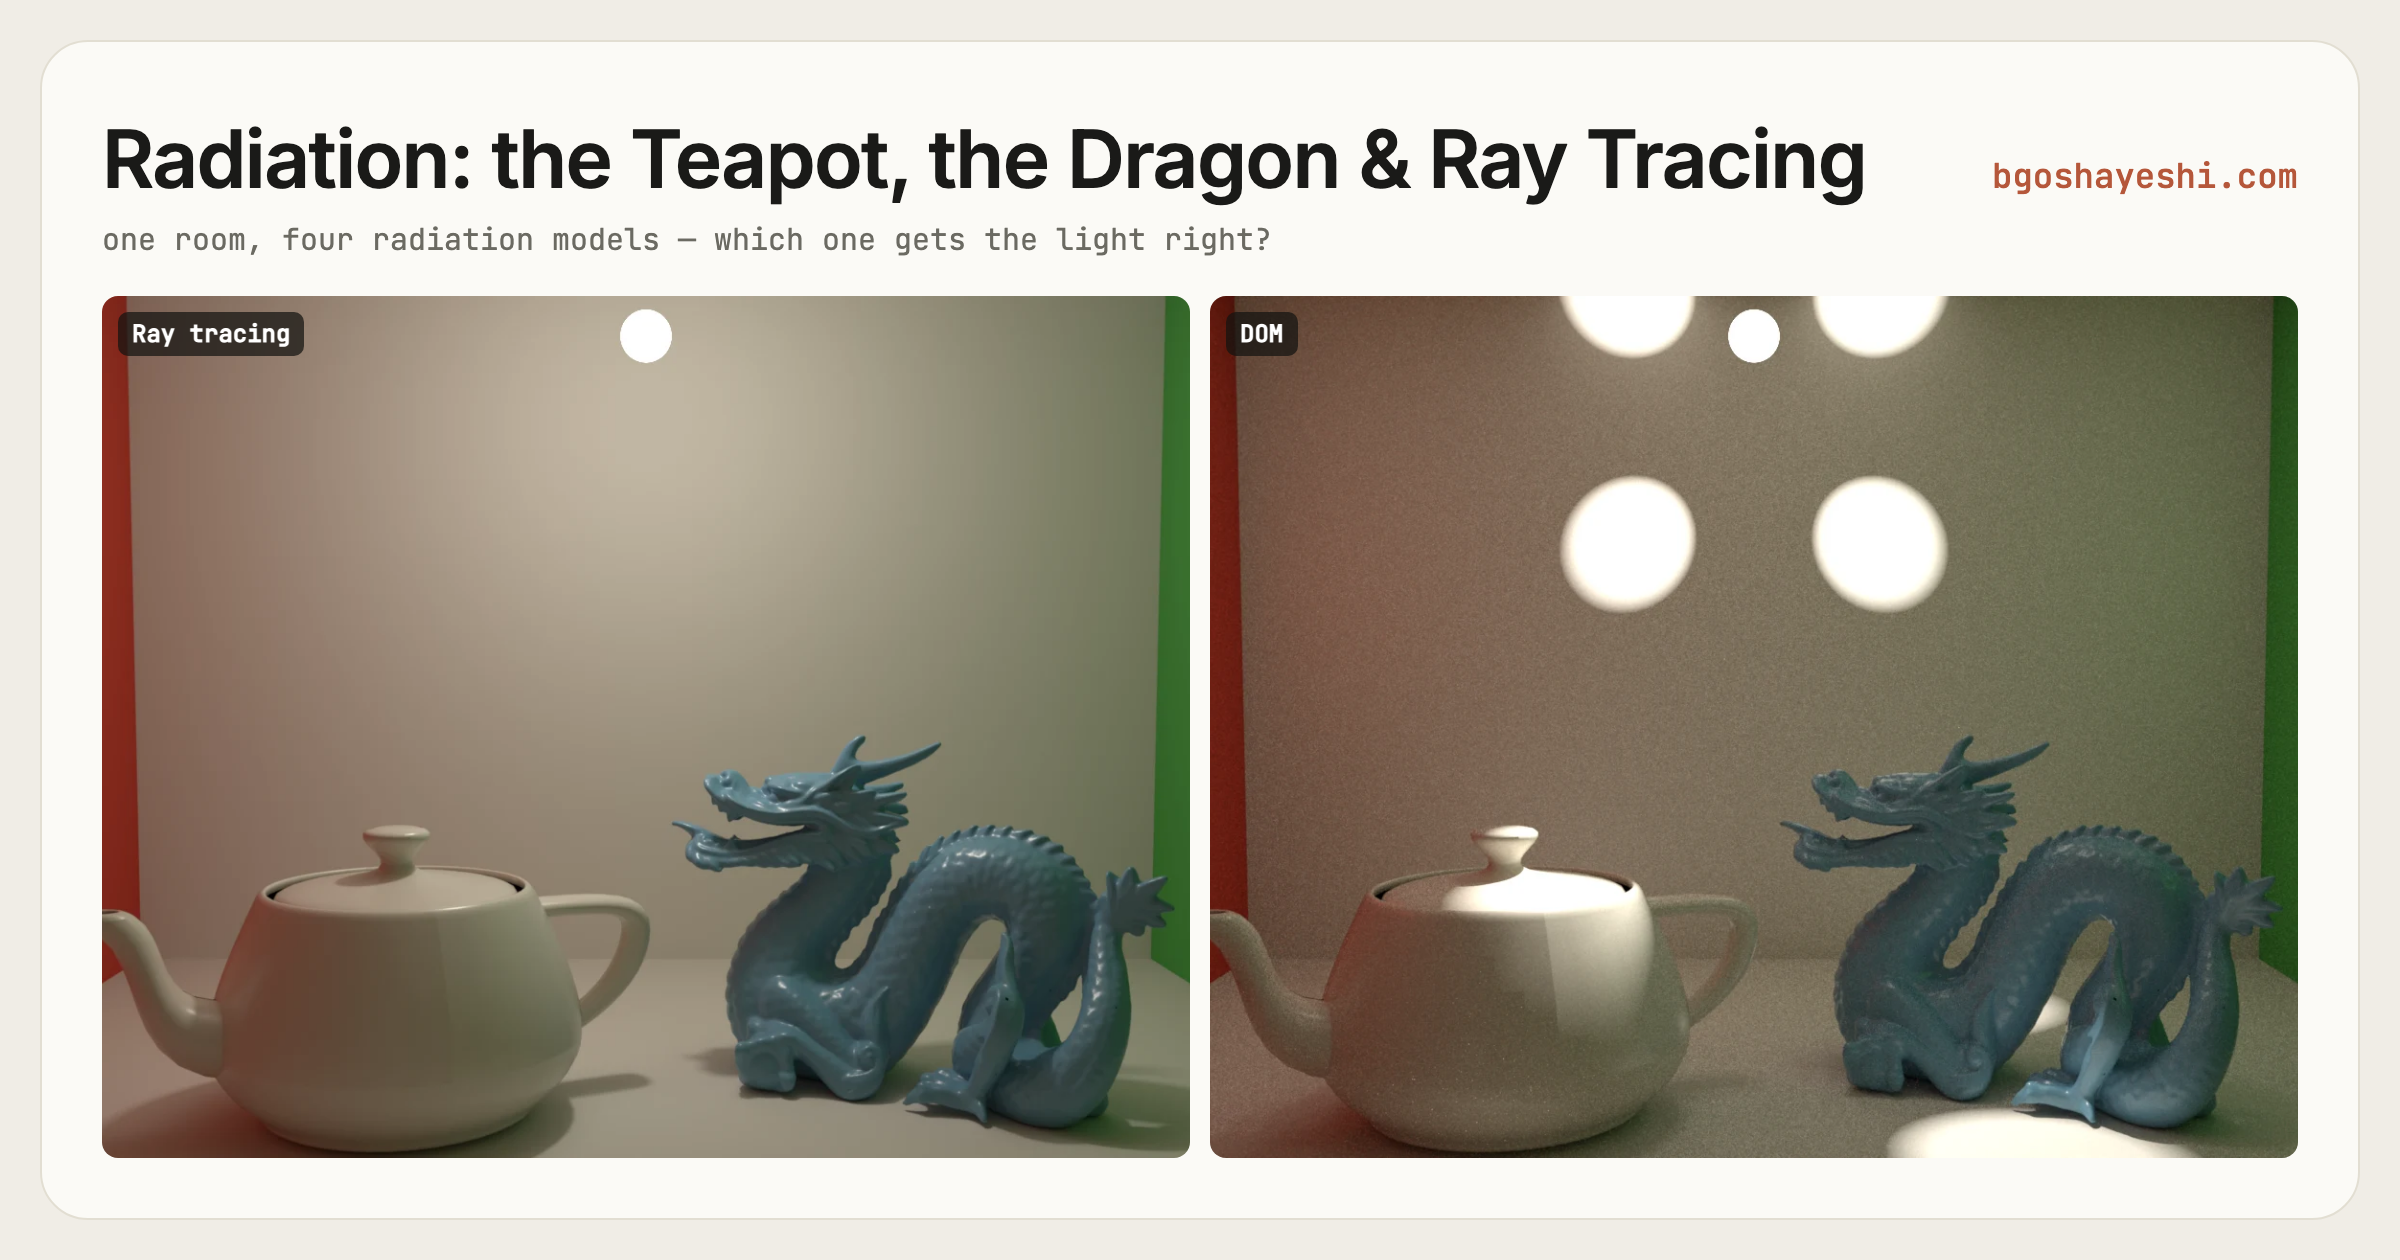
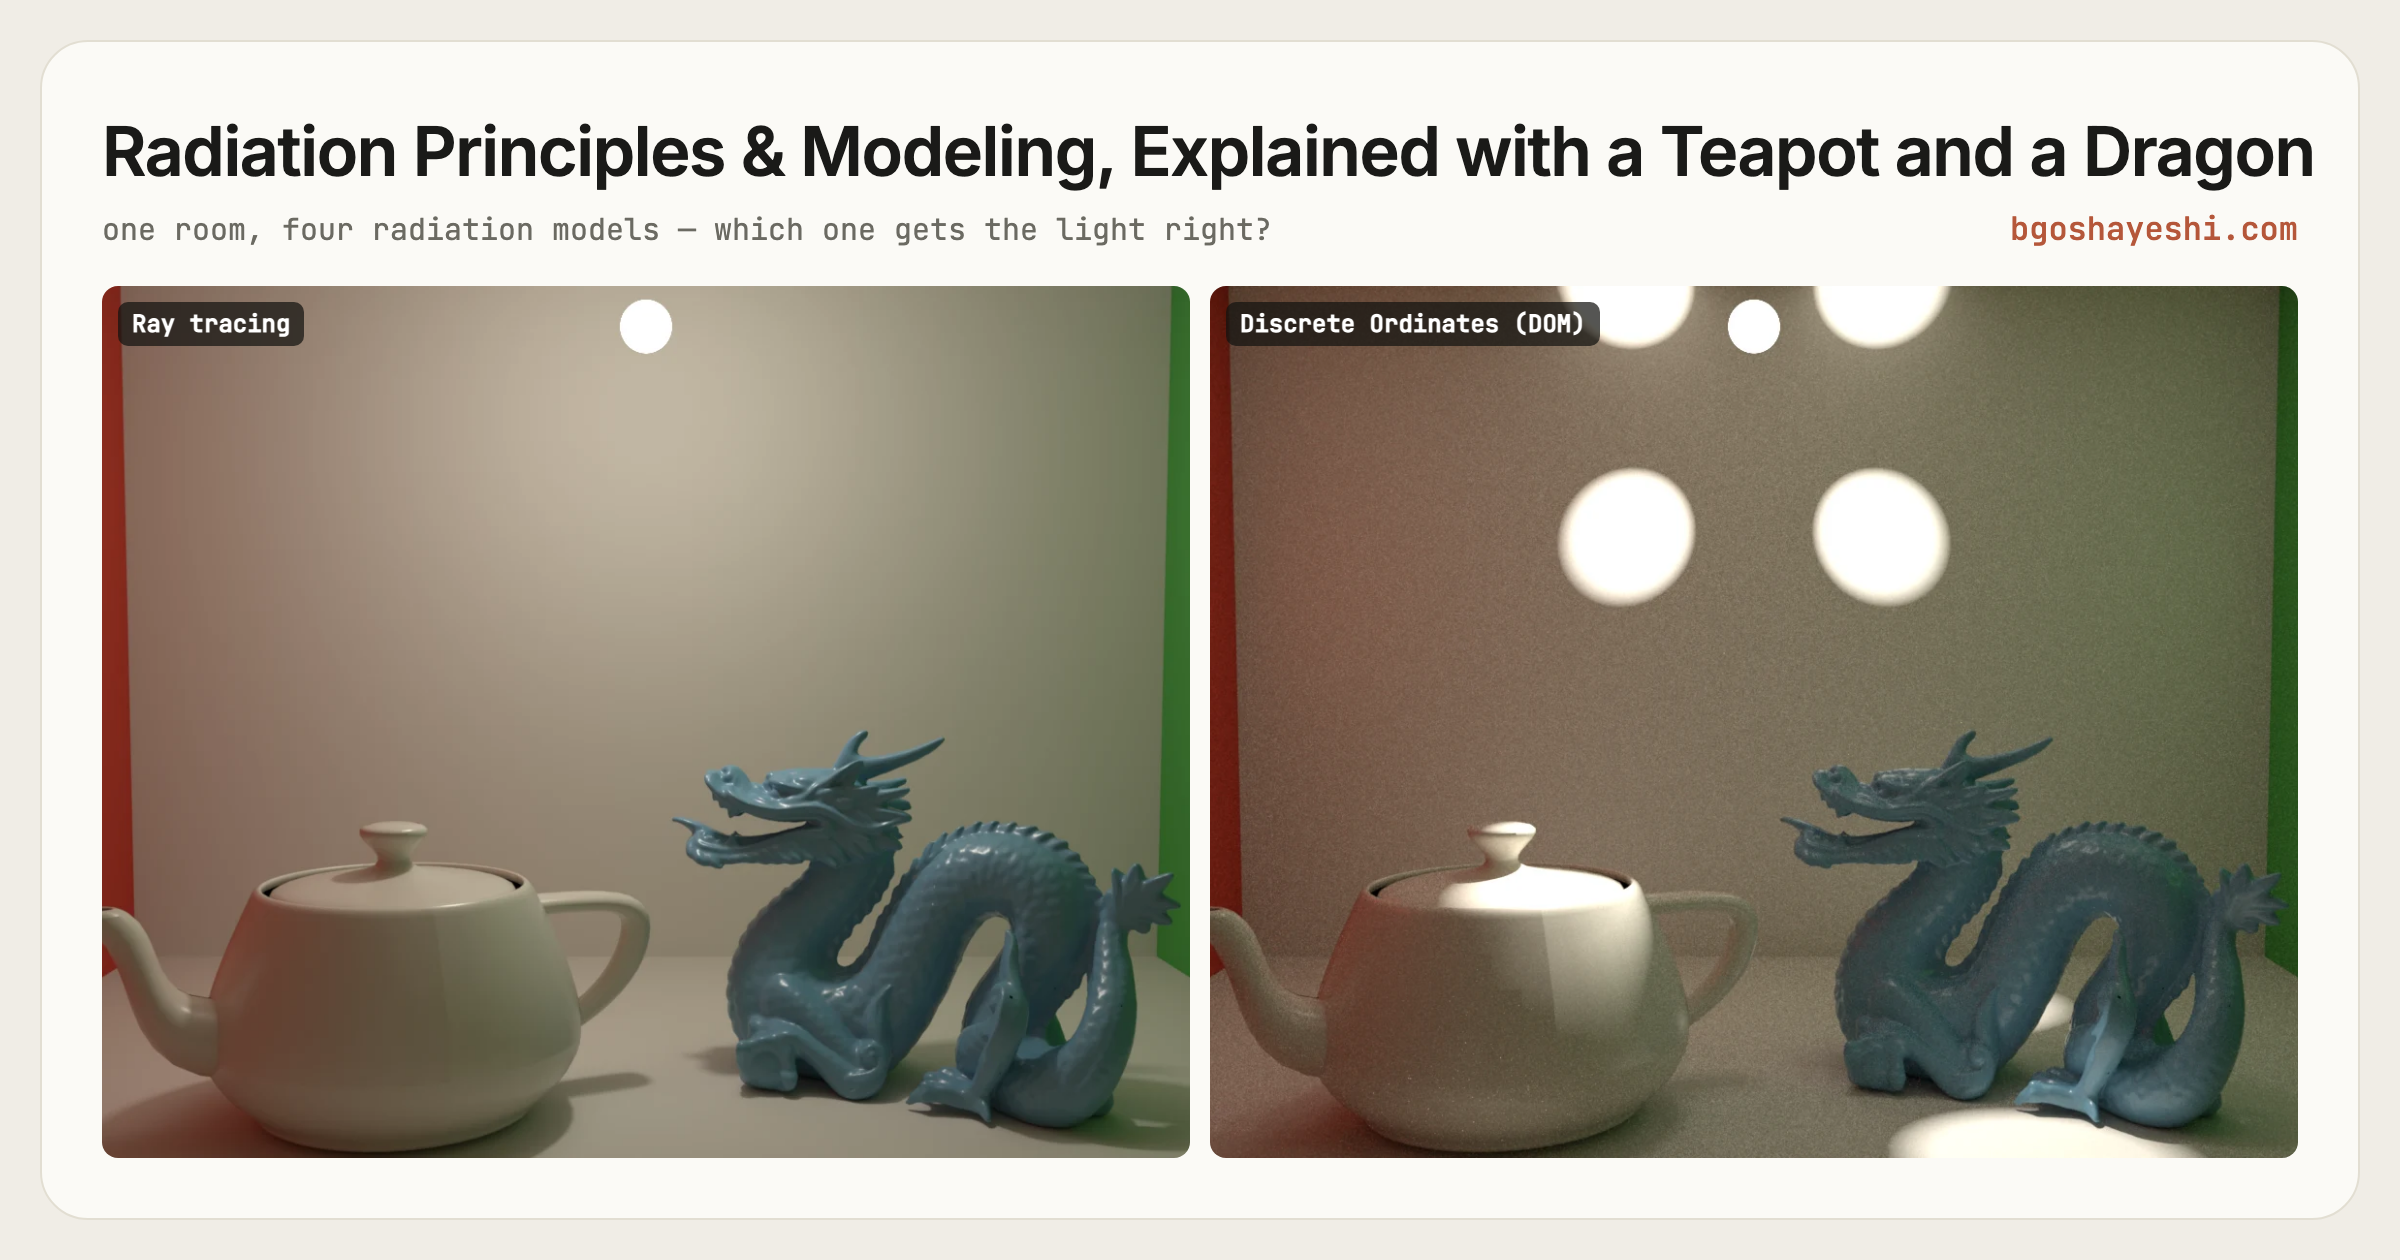
Retitle radiation post
Rename to "Radiation Principles & Modeling, Explained with a Teapot and a
Dragon" across the page, meta tags, blog index, and og-image.

diff --git a/blog/radiation-modeling/index.html b/blog/radiation-modeling/index.html
@@ -4,14 +4,14 @@
   <meta charset="utf-8" />
   <meta name="viewport" content="width=device-width, initial-scale=1" />
 
-  <title>Radiation: The Teapot, the Dragon, and Ray Tracing | Babak Goshayeshi, Ph.D.</title>
+  <title>Radiation Principles &amp; Modeling, Explained with a Teapot and a Dragon | Babak Goshayeshi, Ph.D.</title>
   <meta name="description" content="A brief, non-textbook tour of thermal radiation — absorption, reflection, transmission, the radiative transfer equation, the methods people use to solve it, and why ray tracing won." />
   <meta name="author" content="Babak Goshayeshi" />
   <link rel="canonical" href="https://bgoshayeshi.com/blog/radiation-modeling/" />
 
   <!-- Open Graph / LinkedIn -->
   <meta property="og:type" content="article" />
-  <meta property="og:title" content="Radiation: The Teapot, the Dragon, and Ray Tracing" />
+  <meta property="og:title" content="Radiation Principles &amp; Modeling, Explained with a Teapot and a Dragon" />
   <meta property="og:description" content="A brief, non-textbook tour of thermal radiation — absorption, reflection, transmission, the radiative transfer equation, the methods people use to solve it, and why ray tracing won." />
   <meta property="og:url" content="https://bgoshayeshi.com/blog/radiation-modeling/" />
   <meta property="og:image" content="https://bgoshayeshi.com/blog/radiation-modeling/og-image.png" />
@@ -34,7 +34,7 @@
   {
     "@context": "https://schema.org",
     "@type": "BlogPosting",
-    "headline": "Radiation: The Teapot, the Dragon, and Ray Tracing",
+    "headline": "Radiation Principles & Modeling, Explained with a Teapot and a Dragon",
     "description": "A brief, non-textbook tour of thermal radiation — absorption, reflection, transmission, the radiative transfer equation, the methods people use to solve it, and why ray tracing won.",
     "datePublished": "2026-09-29",
     "url": "https://bgoshayeshi.com/blog/radiation-modeling/",
@@ -190,7 +190,7 @@
       <div class="wrap">
 
         <header class="post__head reveal">
-          <h1>Radiation: The Teapot, the Dragon, and Ray Tracing</h1>
+          <h1>Radiation Principles &amp; Modeling, Explained with a Teapot and a Dragon</h1>
           <p class="post__meta">September 29, 2026 ·
             <a href="/blog/">← All posts</a></p>
         </header>

diff --git a/blog/index.html b/blog/index.html
@@ -106,7 +106,7 @@
 
         <a class="post-card reveal" href="/blog/radiation-modeling/">
           <p class="post-card__meta">September 29, 2026</p>
-          <h2>Radiation: The Teapot, the Dragon, and Ray Tracing</h2>
+          <h2>Radiation Principles &amp; Modeling, Explained with a Teapot and a Dragon</h2>
           <p>A brief, non-textbook tour of thermal radiation &mdash; absorption, reflection,
              transmission, the radiative transfer equation, the methods people use to solve it,
              and why ray tracing won. With interactive figures you can play with.</p>
